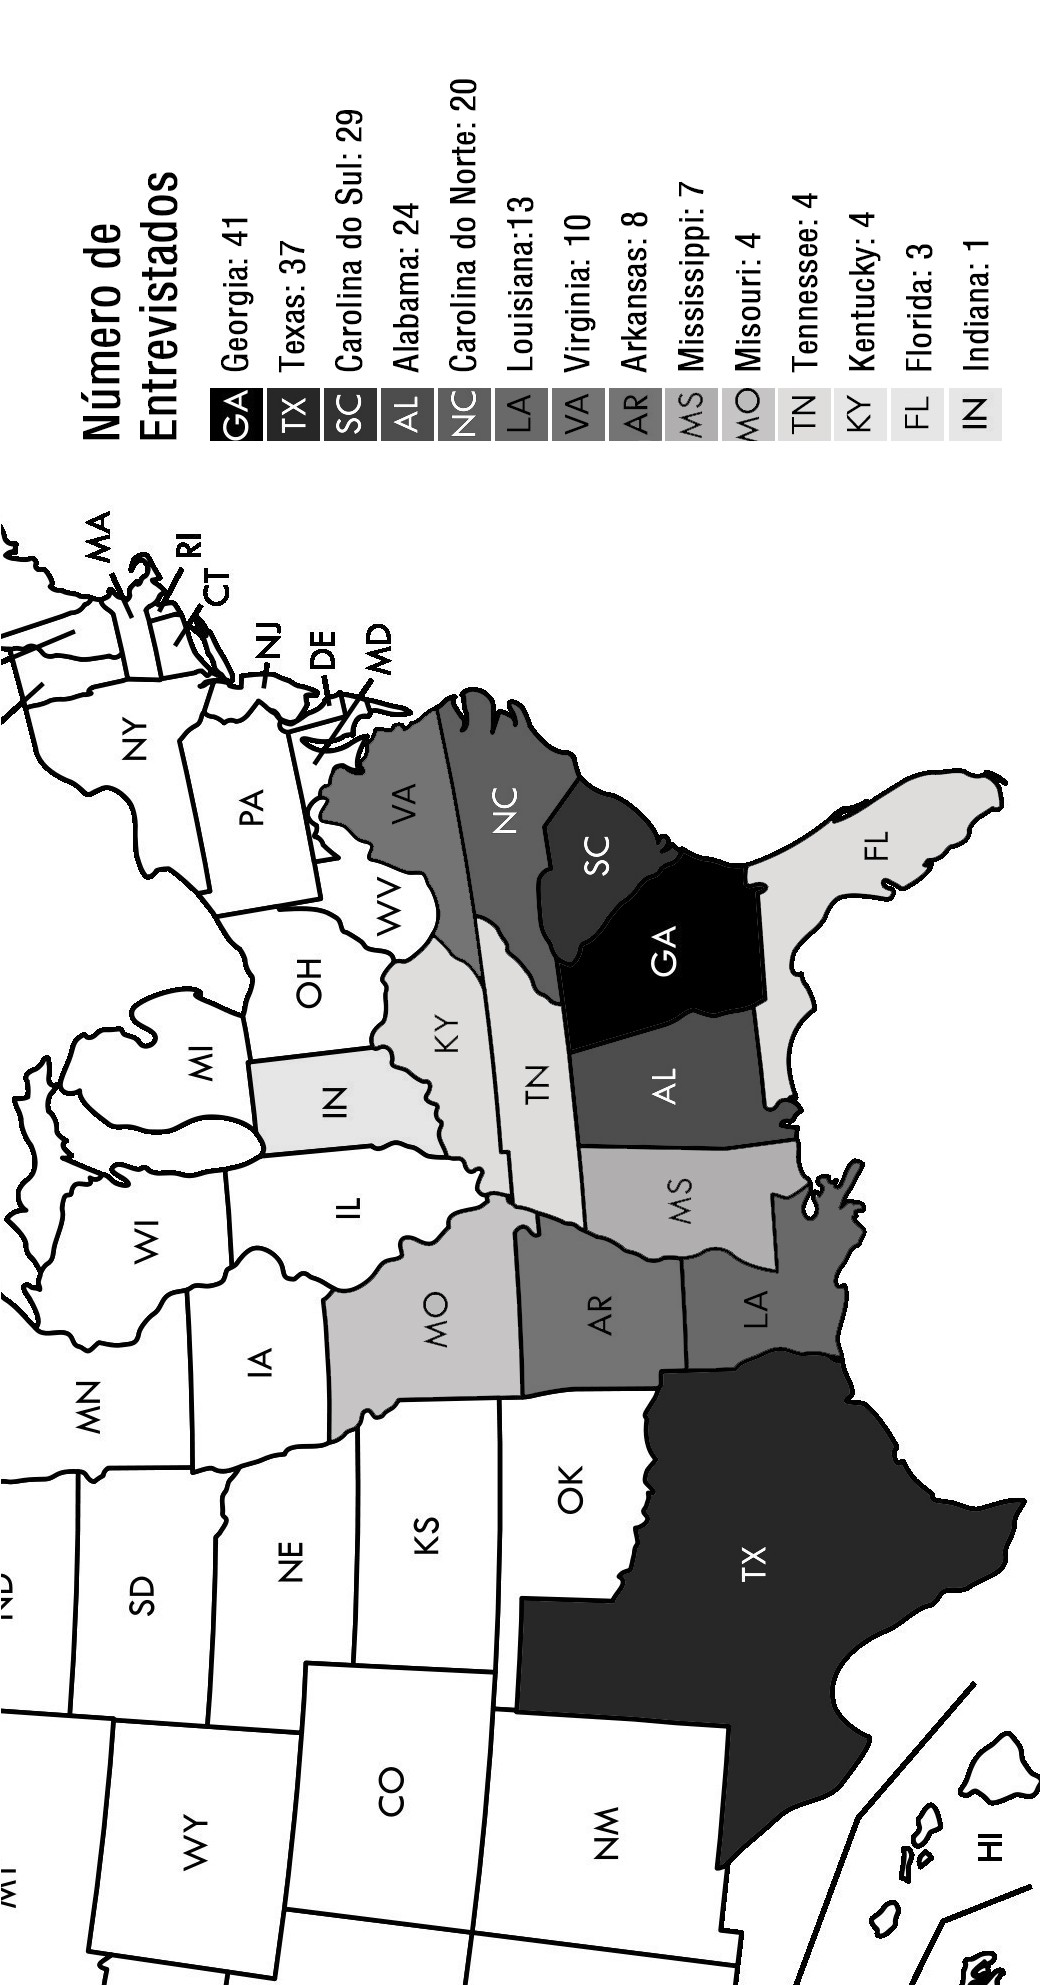
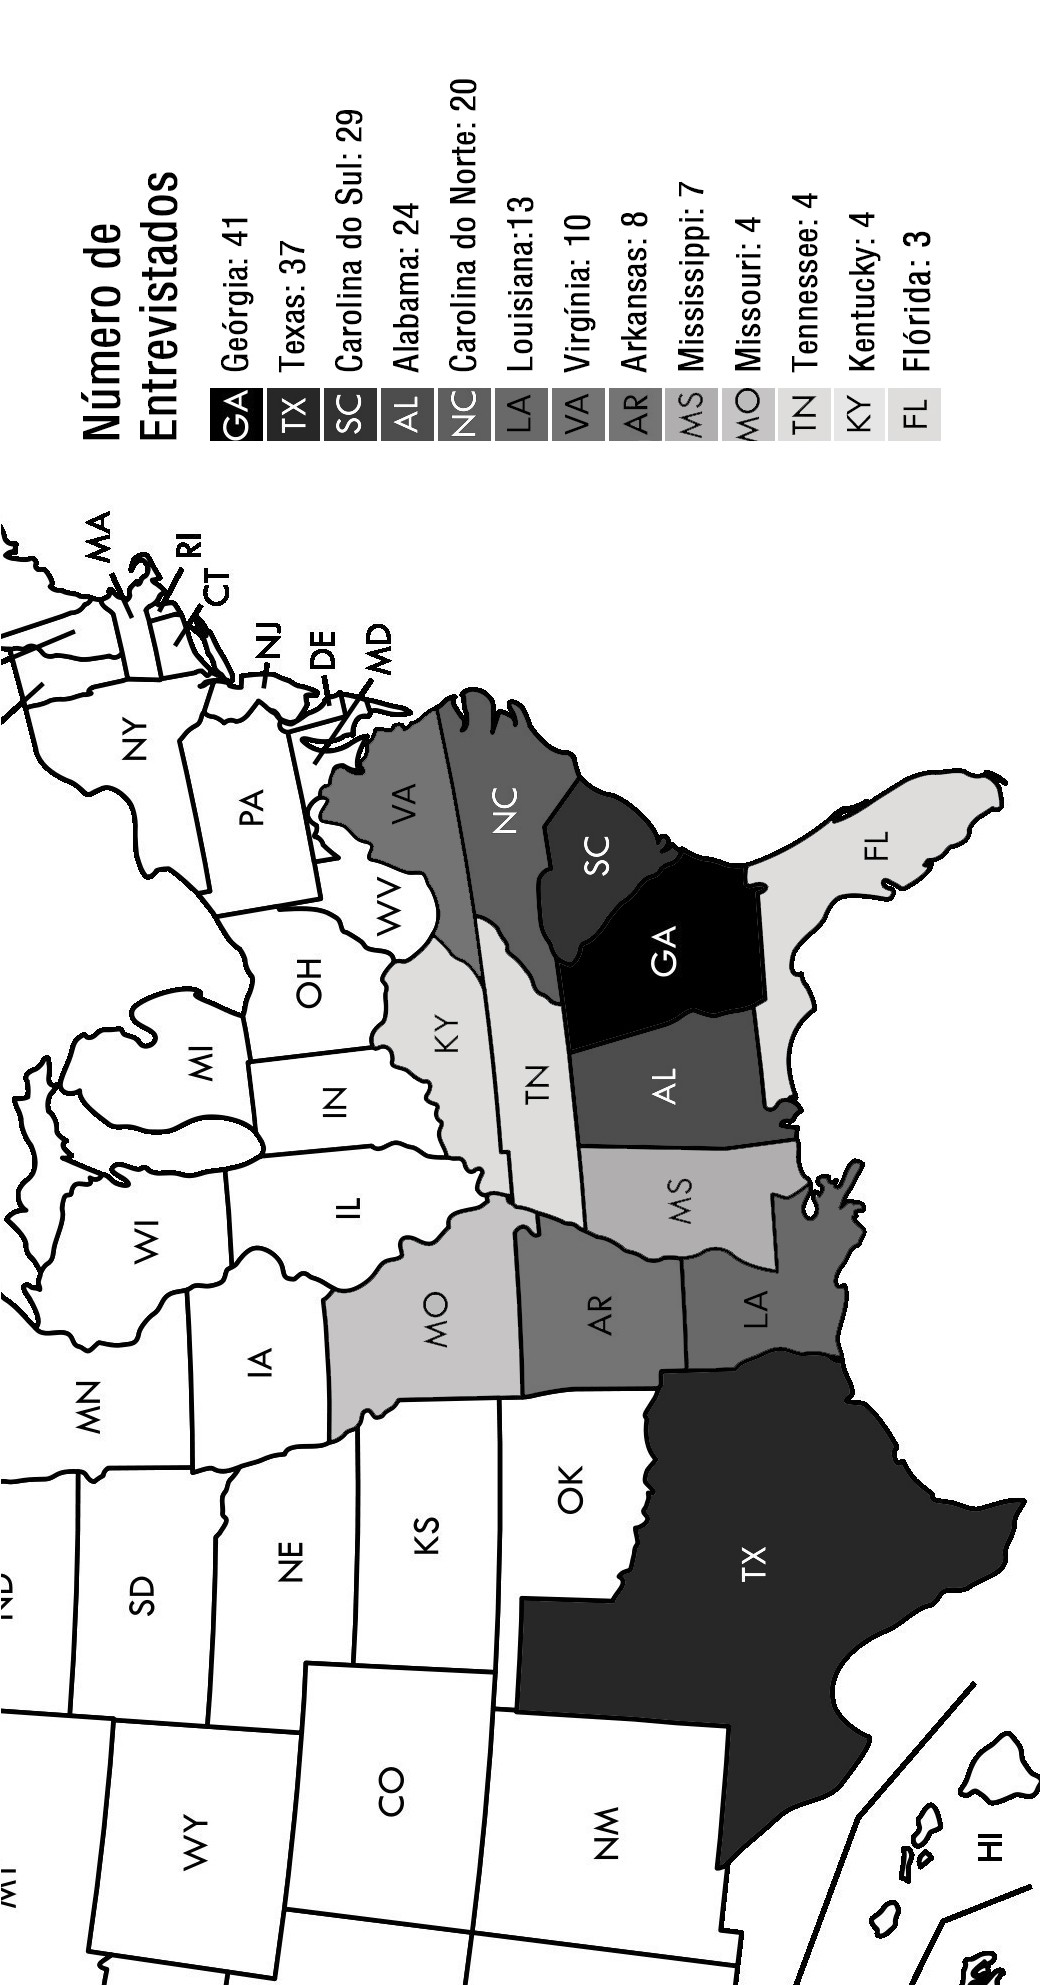
ajustes legendas, mapa e univ. do introdutor

diff --git a/TEXTO.tex b/TEXTO.tex
@@ -10,7 +10,7 @@
   \includegraphics[width=100mm]{./imgs/mapa.jpg}  
   %\hfill
 \end{adjustwidth}
-  \caption{Mapa do sul dos Estados Unidos com o número de entrevistados por estado}
+  \caption{Estados do sul dos Estados Unidos onde os entrevistados viveram a escravidão}
 \end{figure}
 \end{vplace}
 
@@ -40,7 +40,7 @@ depoimentos norte-americanos
   \includegraphics[width=133mm]{./imgs/Cap1.jpg}  
   %\hfill
 \end{adjustwidth}
-  \caption{Henry Wright, Georgia narratives, Part \versal{IV}, pages 195-97}
+  \caption{Henry Wright, narrativas da Geórgia, Parte \versal{IV}, página 191}
 \end{figure}
 \end{vplace}
 
@@ -824,7 +824,7 @@ pilha de milho, cantando enquanto todos os outros imitavam''.
   \includegraphics[width=133mm]{./imgs/Cap2.jpg}  
   %\hfill
 \end{adjustwidth}
-  \caption{Frances Willingham, Georgia narratives, Part \versal{IV}, page 153}
+  \caption{Frances Willingham, narrativas da Geórgia, Parte \versal{IV}, página 153}
 \end{figure}
 \end{vplace}
 
@@ -1739,7 +1739,7 @@ liberdade''.
   \includegraphics[width=133mm]{./imgs/Cap3.jpg}  
   %\hfill
 \end{adjustwidth}
-  \caption{Jordon Smith, Texas narratives, Part \versal{IV}, pages 38-39}
+  \caption{Jordon Smith, narrativas do Texas, Parte \versal{IV}, página 38}
 \end{figure}
 \end{vplace}
 
@@ -2596,7 +2596,7 @@ criava uns belos de uns negros daquele jeito''.
   \includegraphics[width=133mm]{./imgs/Cap4.jpg}  
   %\hfill
 \end{adjustwidth}
-  \caption{Fanny Moore, North Carolina narratives, Part \versal{II}, pages 129-32}
+  \caption{Fanny Moore, narrativas da Carolina do Norte, Parte \versal{II}, página 129}
 \end{figure}
 \end{vplace}
 
@@ -3374,7 +3374,7 @@ no Riacho Beaver Dam, perto da Rua Silver''.
   \includegraphics[width=133mm]{./imgs/Cap5.jpg}  
   %\hfill
 \end{adjustwidth}
-  \caption{Thomas Hall, North Carolina narratives, Part \versal{I}, pages 360-62}
+  \caption{Thomas Hall, narrativas da Carolina do Norte, Parte \versal{I}, página 360}
 \end{figure}
 \end{vplace}
 
@@ -4169,7 +4169,7 @@ teria uma guerra muito terrível se tentassem ter escravos de novo'".
   \includegraphics[width=133mm]{./imgs/Cap6.jpg}  
   %\hfill
 \end{adjustwidth}
-  \caption{Andrew Moss, Tennessee narratives, page 49}
+  \caption{Andrew Moss, narrativas do Tennessee, página 49}
 \end{figure}
 \end{vplace}
 
@@ -5057,7 +5057,7 @@ quase dois de largura''.
   \includegraphics[width=133mm]{./imgs/Cap7.jpg}  
   %\hfill
 \end{adjustwidth}
-  \caption{Thomas Cole, Texas narratives, Part \versal{I}, pages 228-30}
+  \caption{Thomas Cole, narrativas do Texas, Parte \versal{I}, página 225}
 \end{figure}
 \end{vplace}
 
@@ -5932,7 +5932,7 @@ Norte{]} e que lá cuidariam dele, então é para New Bern que fomos''.
   \includegraphics[width=133mm]{./imgs/Cap8.jpg}  
   %\hfill
 \end{adjustwidth}
-  \caption{Felix Haywood, Texas narratives, part \versal{II}, page 131}
+  \caption{Felix Haywood, narrativas do Texas, Parte \versal{II}, página 131}
 \end{figure}
 \end{vplace}
 

diff --git a/INTRO.tex b/INTRO.tex
@@ -3,7 +3,8 @@
 \hedramarkboth{Introdução}{}
 
 \begin{flushright}
-\emph{Paul D. Escott}
+\emph{Paul D. Escott}\\\
+\emph{Wake Forest University}
 \end{flushright}
 
 Como podemos conhecer os escravos? Como aprender sobre os homens,
